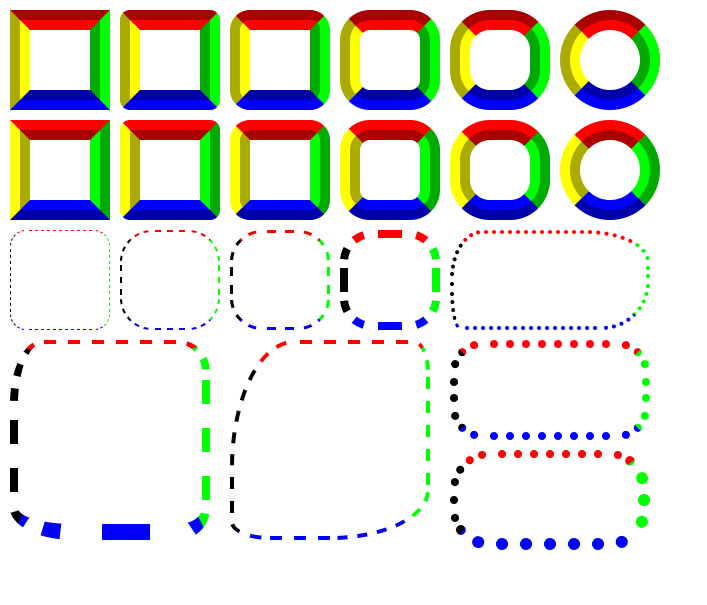
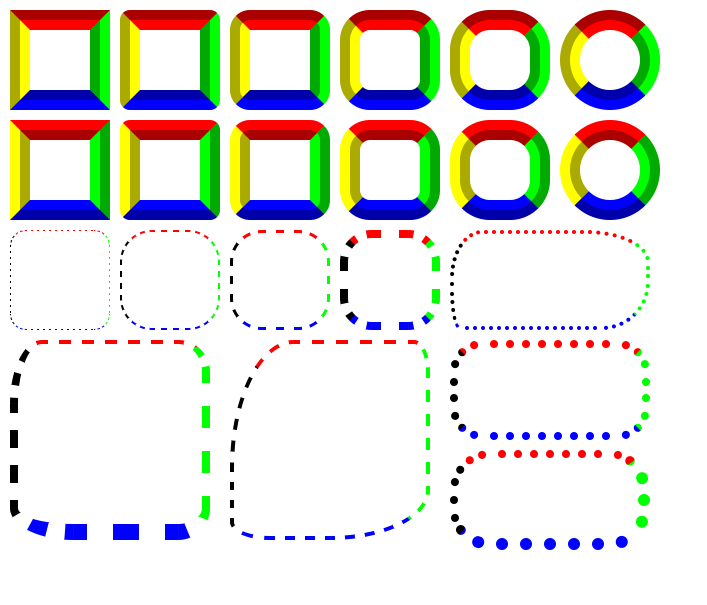
Make dashed-border rendering more similar to Gecko / other browsers.
This commit ensures that dashed segments always start and end with half a dash.

We should probably do better, and apply the condition in the TODO comment. But
this matches existing rendering engines much closer than we do right now.

We also ensure to always draw something in a dashed border corner.

diff --git a/src/webrender/src/border.rs b/src/webrender/src/border.rs
@@ -235,16 +235,19 @@ impl BorderSideHelpers for BorderSide {
 /// The kind of border corner clip.
 #[repr(C)]
 #[derive(Copy, Debug, Clone, PartialEq)]
-pub enum BorderCornerClipKind {
-    Dash = 1,
-    Dot = 2,
+pub enum BorderClipKind {
+    DashCorner = 1,
+    DashEdge = 2,
+    Dot = 3,
 }
 
 /// The source data for a border corner clip mask.
 #[derive(Debug, Clone)]
-pub struct BorderCornerClipSource {
-    pub max_clip_count: usize,
-    kind: BorderCornerClipKind,
+struct BorderCornerClipSource {
+    // FIXME(emilio): the `max_clip_count` name makes no sense for dashed
+    // borders now that it represents half-dashes.
+    max_clip_count: usize,
+    kind: BorderClipKind,
     widths: DeviceSize,
     radius: DeviceSize,
     ellipse: Ellipse<DevicePixel>,
@@ -254,7 +257,7 @@ impl BorderCornerClipSource {
     pub fn new(
         corner_radius: DeviceSize,
         widths: DeviceSize,
-        kind: BorderCornerClipKind,
+        kind: BorderClipKind,
     ) -> BorderCornerClipSource {
         // Work out a dash length (and therefore dash count)
         // based on the width of the border edges. The "correct"
@@ -265,24 +268,21 @@ impl BorderCornerClipSource {
         //           uses for dash length.
 
         let (ellipse, max_clip_count) = match kind {
-            BorderCornerClipKind::Dash => {
+            BorderClipKind::DashEdge => unreachable!("not for corners"),
+            BorderClipKind::DashCorner => {
                 let ellipse = Ellipse::new(corner_radius);
 
-                // The desired dash length is ~3x the border width.
                 let average_border_width = 0.5 * (widths.width + widths.height);
-                let desired_dash_arc_length = average_border_width * 3.0;
 
-                // Get the ideal number of dashes for that arc length.
-                // This is scaled by 0.5 since there is an on/off length
-                // for each dash.
-                let desired_count = 0.5 * ellipse.total_arc_length / desired_dash_arc_length;
+                let (_half_dash, num_half_dashes) =
+                    compute_half_dash(average_border_width, ellipse.total_arc_length);
 
                 // Round that up to the nearest integer, so that the dash length
                 // doesn't exceed the ratio above. Add one extra dash to cover
                 // the last half-dash of the arc.
-                (ellipse, desired_count.ceil() as usize)
+                (ellipse, num_half_dashes as usize)
             }
-            BorderCornerClipKind::Dot => {
+            BorderClipKind::Dot => {
                 let mut corner_radius = corner_radius;
                 if corner_radius.width < (widths.width / 2.0) {
                     corner_radius.width = 0.0;
@@ -334,6 +334,10 @@ impl BorderCornerClipSource {
     pub fn write(self, segment: BorderSegment) -> Vec<[f32; 8]> {
         let mut dot_dash_data = Vec::new();
 
+        if self.max_clip_count == 0 {
+            return dot_dash_data;
+        }
+
         let outer_scale = match segment {
             BorderSegment::TopLeft => DeviceVector2D::new(0.0, 0.0),
             BorderSegment::TopRight => DeviceVector2D::new(1.0, 0.0),
@@ -353,29 +357,32 @@ impl BorderCornerClipSource {
         let max_clip_count = self.max_clip_count.min(MAX_DASH_COUNT);
 
         match self.kind {
-            BorderCornerClipKind::Dash => {
-                // Get the correct dash arc length.
-                let dash_arc_length =
-                    0.5 * self.ellipse.total_arc_length / max_clip_count as f32;
-                // Start the first dash at one quarter the length of a single dash
-                // along the arc line. This is arbitrary but looks reasonable in
-                // most cases. We need to spend some time working on a more
-                // sophisticated dash placement algorithm that takes into account
-                // the offset of the dashes along edge segments.
-                let mut current_arc_length = 0.25 * dash_arc_length;
-                dot_dash_data.reserve(max_clip_count);
-                for _ in 0 .. max_clip_count {
-                    let arc_length0 = current_arc_length;
-                    current_arc_length += dash_arc_length;
+            BorderClipKind::DashEdge => unreachable!("not for corners"),
+            BorderClipKind::DashCorner => {
+                // Get the correct half-dash arc length.
+                let half_dash_arc_length =
+                    self.ellipse.total_arc_length / max_clip_count as f32;
+                let dash_length = 2. * half_dash_arc_length;
 
-                    let arc_length1 = current_arc_length;
-                    current_arc_length += dash_arc_length;
+                let mut current_length = 0.;
+
+                dot_dash_data.reserve(max_clip_count / 4 + 1);
+                for i in 0 .. (max_clip_count / 4 + 1) {
+                    let arc_length0 = current_length;
+                    current_length += if i == 0 {
+                        half_dash_arc_length
+                    } else {
+                        dash_length
+                    };
+
+                    let arc_length1 = current_length;
+                    current_length += dash_length;
 
                     let alpha = self.ellipse.find_angle_for_arc_length(arc_length0);
-                    let beta =  self.ellipse.find_angle_for_arc_length(arc_length1);
+                    let beta = self.ellipse.find_angle_for_arc_length(arc_length1);
 
-                    let (point0, tangent0) =  self.ellipse.get_point_and_tangent(alpha);
-                    let (point1, tangent1) =  self.ellipse.get_point_and_tangent(beta);
+                    let (point0, tangent0) = self.ellipse.get_point_and_tangent(alpha);
+                    let (point1, tangent1) = self.ellipse.get_point_and_tangent(beta);
 
                     let point0 = DevicePoint::new(
                         outer.x + clip_sign.x * (self.radius.width - point0.x),
@@ -409,14 +416,14 @@ impl BorderCornerClipSource {
                     ]);
                 }
             }
-            BorderCornerClipKind::Dot if max_clip_count == 1 => {
+            BorderClipKind::Dot if max_clip_count == 1 => {
                 let dot_diameter = lerp(self.widths.width, self.widths.height, 0.5);
                 dot_dash_data.push([
                     self.widths.width / 2.0, self.widths.height / 2.0, 0.5 * dot_diameter, 0.,
                     0., 0., 0., 0.,
                 ]);
             }
-            BorderCornerClipKind::Dot => {
+            BorderClipKind::Dot => {
                 let mut forward_dots = Vec::with_capacity(max_clip_count / 2 + 1);
                 let mut back_dots = Vec::with_capacity(max_clip_count / 2 + 1);
                 let mut leftover_arc_length = 0.0;
@@ -539,13 +546,14 @@ pub struct BorderRenderTaskInfo {
     pub size: DeviceIntSize,
 }
 
-// Information needed to place and draw a border edge.
+/// Information needed to place and draw a border edge.
+#[derive(Debug)]
 struct EdgeInfo {
-    // Offset in local space to place the edge from origin.
+    /// Offset in local space to place the edge from origin.
     local_offset: f32,
-    // Size of the edge in local space.
+    /// Size of the edge in local space.
     local_size: f32,
-    // Size in device pixels needed in the render task.
+    /// Size in device pixels needed in the render task.
     device_size: f32,
 }
 
@@ -563,6 +571,30 @@ impl EdgeInfo {
     }
 }
 
+// Given a side width and the available space, compute the half-dash (half of
+// the 'on' segment) and the count of them for a given segment.
+fn compute_half_dash(side_width: f32, total_size: f32) -> (f32, u32) {
+    let half_dash = side_width * 1.5;
+    let num_half_dashes = (total_size / half_dash).ceil() as u32;
+
+    if num_half_dashes == 0 {
+        return (0., 0);
+    }
+
+    // TODO(emilio): Gecko has some other heuristics here to start with a full
+    // dash when the border side is zero, for example. We might consider those
+    // in the future.
+    let num_half_dashes = if num_half_dashes % 4 != 0 {
+        num_half_dashes + 4 - num_half_dashes % 4
+    } else {
+        num_half_dashes
+    };
+
+    let half_dash = total_size / num_half_dashes as f32;
+    (half_dash, num_half_dashes)
+}
+
+
 // Get the needed size in device pixels for an edge,
 // based on the border style of that edge. This is used
 // to determine how big the render task should be.
@@ -579,14 +611,11 @@ fn get_edge_info(
 
     match style {
         BorderStyle::Dashed => {
-            let dash_size = 3.0 * side_width;
-            let approx_dash_count = (avail_size - dash_size) / dash_size;
-            let dash_count = 1.0 + 2.0 * (approx_dash_count / 2.0).floor();
-            let used_size = dash_count * dash_size;
-            let extra_space = avail_size - used_size;
-            let device_size = 2.0 * dash_size * scale;
-            let offset = (extra_space * 0.5).round();
-            EdgeInfo::new(offset, used_size, device_size)
+            // Basically, two times the dash size.
+            let (half_dash, _num_half_dashes) =
+                compute_half_dash(side_width, avail_size);
+            let device_size = (2.0 * 2.0 * half_dash * scale).round();
+            EdgeInfo::new(0., avail_size, device_size)
         }
         BorderStyle::Dotted => {
             let dot_and_space_size = 2.0 * side_width;
@@ -960,7 +989,7 @@ fn add_brush_segment(
     brush_segments.push(
         BrushSegment::new(
             image_rect,
-            true,
+            /* may_need_clip_mask = */ true,
             edge_flags,
             [
                 task_rect.origin.x,
@@ -1014,8 +1043,8 @@ fn add_segment(
             }
 
             let clip_kind = match style0 {
-                BorderStyle::Dashed => Some(BorderCornerClipKind::Dash),
-                BorderStyle::Dotted => Some(BorderCornerClipKind::Dot),
+                BorderStyle::Dashed => Some(BorderClipKind::DashCorner),
+                BorderStyle::Dotted => Some(BorderClipKind::Dot),
                 _ => None,
             };
 
@@ -1031,12 +1060,16 @@ fn add_segment(
                     //           so that we don't allocate a Vec here.
                     let clip_list = clip_source.write(segment);
 
-                    for params in clip_list {
-                        instances.push(BorderInstance {
-                            flags: base_flags | ((clip_kind as i32) << 24),
-                            clip_params: params,
-                            ..base_instance
-                        });
+                    if clip_list.is_empty() {
+                        instances.push(base_instance);
+                    } else {
+                        for params in clip_list {
+                            instances.push(BorderInstance {
+                                flags: base_flags | ((clip_kind as i32) << 24),
+                                clip_params: params,
+                                ..base_instance
+                            });
+                        }
                     }
                 }
                 None => {
@@ -1053,32 +1086,19 @@ fn add_segment(
 
             match style0 {
                 BorderStyle::Dashed => {
-                    let rect = if is_vertical {
-                        let half_dash_size = task_rect.size.height * 0.5;
-                        let y0 = task_rect.origin.y;
-                        let y1 = y0 + half_dash_size.round();
-
-                        DeviceRect::from_floats(
-                            task_rect.origin.x,
-                            y0,
-                            task_rect.origin.x + task_rect.size.width,
-                            y1,
-                        )
+                    let (x, y) = if is_vertical {
+                        let half_dash_size = task_rect.size.height * 0.25;
+                        (0., half_dash_size)
                     } else {
-                        let half_dash_size = task_rect.size.width * 0.5;
-                        let x0 = task_rect.origin.x;
-                        let x1 = x0 + half_dash_size.round();
-
-                        DeviceRect::from_floats(
-                            x0,
-                            task_rect.origin.y,
-                            x1,
-                            task_rect.origin.y + task_rect.size.height,
-                        )
+                        let half_dash_size = task_rect.size.width * 0.25;
+                        (half_dash_size, 0.)
                     };
 
                     instances.push(BorderInstance {
-                        local_rect: rect,
+                        flags: base_flags | ((BorderClipKind::DashEdge as i32) << 24),
+                        clip_params: [
+                            x, y, 0.0, 0.0, 0.0, 0.0, 0.0, 0.0,
+                        ],
                         ..base_instance
                     });
                 }
@@ -1094,7 +1114,7 @@ fn add_segment(
                     };
 
                     instances.push(BorderInstance {
-                        flags: base_flags | ((BorderCornerClipKind::Dot as i32) << 24),
+                        flags: base_flags | ((BorderClipKind::Dot as i32) << 24),
                         clip_params: [
                             x, y, r, 0.0, 0.0, 0.0, 0.0, 0.0,
                         ],

diff --git a/src/webrender/src/renderer.rs b/src/webrender/src/renderer.rs
@@ -2048,10 +2048,7 @@ impl Renderer {
         );
 
         for alpha_batch_container in &target.alpha_batch_containers {
-            for batch in alpha_batch_container
-                .opaque_batches
-                .iter()
-                .rev() {
+            for batch in alpha_batch_container.opaque_batches.iter().rev() {
                 debug_target.add(
                     debug_server::BatchKind::Opaque,
                     batch.key.kind.debug_name(),
@@ -2059,8 +2056,7 @@ impl Renderer {
                 );
             }
 
-            for batch in &alpha_batch_container
-                .alpha_batches {
+            for batch in &alpha_batch_container.alpha_batches {
                 debug_target.add(
                     debug_server::BatchKind::Alpha,
                     batch.key.kind.debug_name(),
